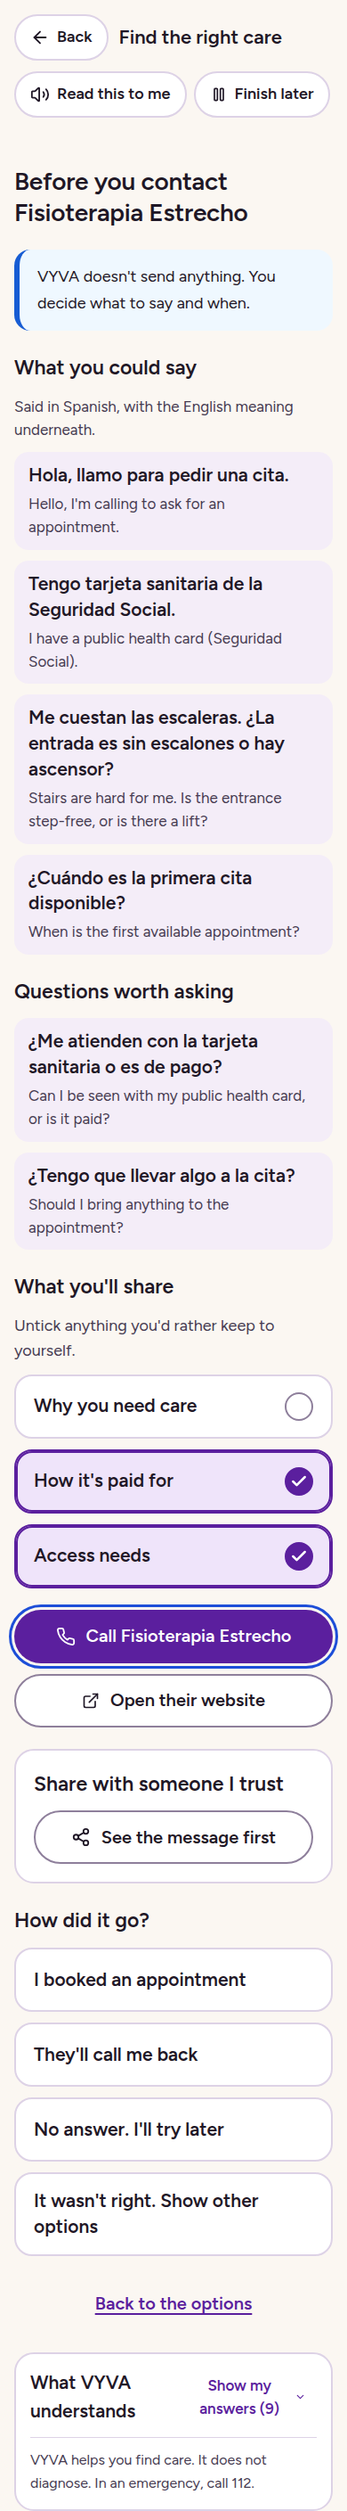
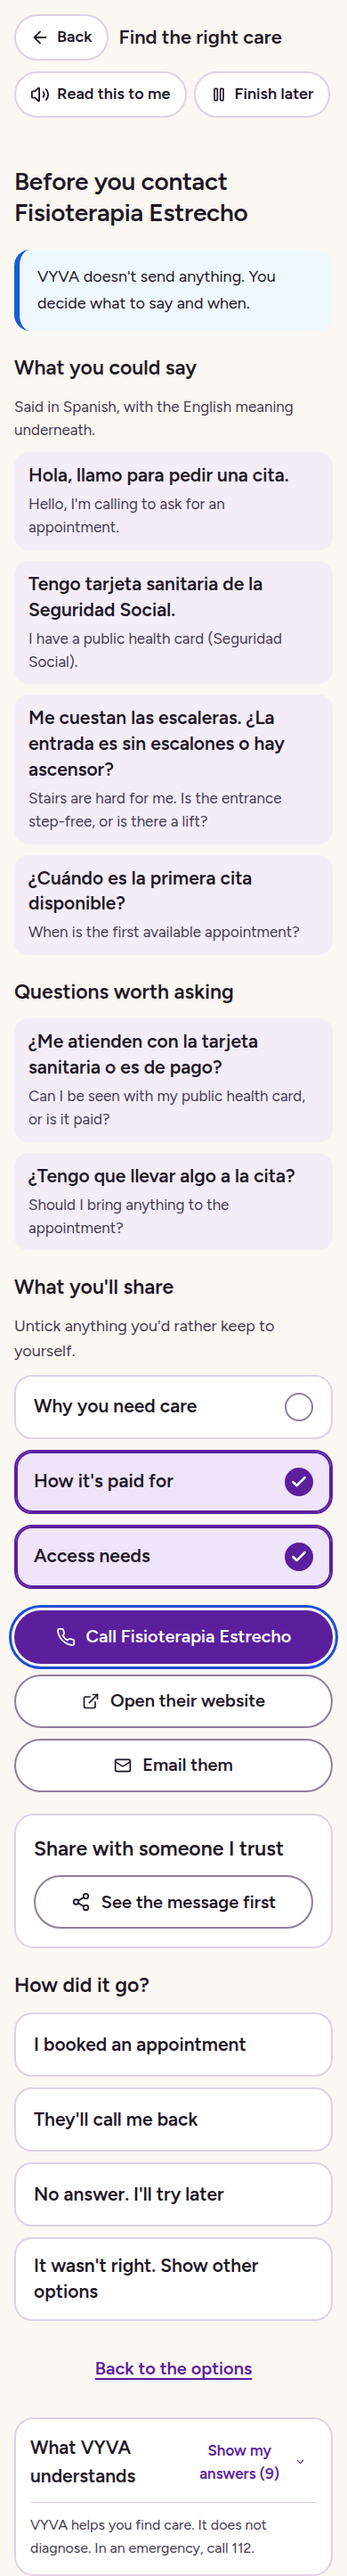
Care Finder: email button with a short label, like its neighbours
Seen at phone width, "Email them: <address>" wrapped long addresses mid-word
into a tall button and squeezed the icon. The button now reads "Email them"
(the address fills in the mail app, and the shared summary lists it), and
the icon keeps its size. The browser harness gets a long sample address and
the e2e contact tests check the link and no sideways scroll.

Claude-Session: https://claude.ai/code/session_01VV49smnWjUgj9Kvixja9Ew

Changed region(s): [[0.0308, 0.0, 0.9846, 0.9996], [0.9231, 0.781, 0.9538, 0.8747]]

diff --git a/src/features/careFinder/copy.ts b/src/features/careFinder/copy.ts
@@ -170,7 +170,7 @@ function englishCopy() {
       call: (name: string) => `Call ${name}`,
       noPhone: "No phone number was found for this place.",
       website: "Open their website",
-      email: (address: string) => `Email them: ${address}`,
+      email: "Email them",
       bookingLink: "Open their booking page",
       confirmTitle: (name: string) => `Call ${name}?`,
       confirmBody: (phone: string) => `Your phone will call ${phone}. VYVA doesn't listen to or record the call.`,
@@ -394,7 +394,7 @@ function spanishCopy(): Copy {
       call: (name: string) => `Llamar a ${name}`,
       noPhone: "No hemos encontrado un teléfono para este sitio.",
       website: "Abrir su web",
-      email: (address: string) => `Enviarles un correo: ${address}`,
+      email: "Enviarles un correo",
       bookingLink: "Abrir su página de citas",
       confirmTitle: (name: string) => `¿Llamar a ${name}?`,
       confirmBody: (phone: string) => `Su teléfono llamará al ${phone}. VYVA no escucha ni graba la llamada.`,
@@ -619,7 +619,7 @@ function frenchCopy(): Copy {
       call: (name: string) => `Appeler ${name}`,
       noPhone: "Aucun numéro de téléphone n'a été trouvé pour ce lieu.",
       website: "Ouvrir leur site web",
-      email: (address: string) => `Leur écrire un e-mail : ${address}`,
+      email: "Leur écrire un e-mail",
       bookingLink: "Ouvrir leur page de rendez-vous",
       confirmTitle: (name: string) => `Appeler ${name} ?`,
       confirmBody: (phone: string) => `Votre téléphone va appeler le ${phone}. VYVA n'écoute pas et n'enregistre pas l'appel.`,
@@ -844,7 +844,7 @@ function germanCopy(): Copy {
       call: (name: string) => `${name} anrufen`,
       noPhone: "Für diesen Ort wurde keine Telefonnummer gefunden.",
       website: "Website öffnen",
-      email: (address: string) => `E-Mail schreiben: ${address}`,
+      email: "E-Mail schreiben",
       bookingLink: "Terminseite öffnen",
       confirmTitle: (name: string) => `${name} anrufen?`,
       confirmBody: (phone: string) => `Ihr Telefon ruft ${phone} an. VYVA hört nicht mit und zeichnet nichts auf.`,

diff --git a/e2e/care-finder.spec.ts b/e2e/care-finder.spec.ts
@@ -138,6 +138,7 @@ for (const locale of ["fr", "de"] as const) {
     await page.getByTestId("button-show-options").click();
     await page.getByTestId("button-prepare-a").click();
     await expect(page.getByTestId("button-care-call")).toBeVisible();
+    await expect(page.getByTestId("link-care-email")).toBeVisible();
     // Long German compounds must wrap inside the column, never spill out of it.
     const spill = await page.evaluate(() => {
       const frame = document.querySelector("[data-testid='harness-frame']")!.getBoundingClientRect();
@@ -160,6 +161,8 @@ test("contact preparation requires confirmation before calling", async ({ page }
   await page.getByTestId("button-prepare-a").click();
   await expect(page.getByRole("heading", { name: "Before you contact Fisioterapia Estrecho" })).toBeVisible();
   await expect(page.locator('a[href^="tel:+34"]')).toHaveCount(0);
+  await expect(page.getByTestId("link-care-email")).toHaveAttribute("href", "mailto:citas.fisioterapia@fisioterapiaestrecho-tarifa.es");
+  await expectNoHorizontalScroll(page);
   await page.getByTestId("button-care-call").click();
   const dialog = page.getByRole("dialog", { name: "Call Fisioterapia Estrecho?" });
   await expect(dialog.getByTestId("link-confirm-call")).toHaveAttribute("href", "tel:+34956680000");

diff --git a/src/features/careFinder/CareFinder.test.tsx b/src/features/careFinder/CareFinder.test.tsx
@@ -207,7 +207,7 @@ describe("contact safeguards", () => {
     fireEvent.click(screen.getByTestId("button-show-options"));
     fireEvent.click(await screen.findByTestId("button-prepare-a"));
     expect(await screen.findByTestId("link-care-email")).toHaveAttribute("href", "mailto:cita@fisiocerca.es");
-    expect(screen.getByTestId("link-care-email")).toHaveTextContent("Email them: cita@fisiocerca.es");
+    expect(screen.getByTestId("link-care-email")).toHaveTextContent("Email them");
     fireEvent.click(screen.getByTestId("button-care-share-preview"));
     expect(screen.getByTestId("care-share-preview").textContent).toContain("Email: cita@fisiocerca.es");
   });

diff --git a/src/dev/care-finder/main.tsx b/src/dev/care-finder/main.tsx
@@ -59,6 +59,8 @@ const okResults: CareFinderSearchResponse = {
   mapsSearchUrl: "https://www.google.com/maps/search/?api=1&query=fisioterapia%2011380%20Tarifa",
   options: [
     option("a", "Fisioterapia Estrecho", 4, "1,2 km", {
+      // Long on purpose: it must wrap inside the button on a phone.
+      email: "citas.fisioterapia@fisioterapiaestrecho-tarifa.es",
       comparison: {
         distance: fact("1,2 km · 4 min", "reported"),
         price: fact(lang === "es" ? "Sesión desde 35 €" : "Session from €35", "verified", "Official provider website: fisioestrecho.es"),

diff --git a/src/features/careFinder/ContactStep.tsx b/src/features/careFinder/ContactStep.tsx
@@ -172,7 +172,7 @@ export function ContactStep({
         ) : null}
         {option.email ? (
           <a href={`mailto:${option.email}`} className={actionClass("secondary")} data-testid="link-care-email">
-            <Mail size={20} aria-hidden="true" /><span className="break-all">{c.email(option.email)}</span>
+            <Mail size={20} aria-hidden="true" className="shrink-0" /><span>{c.email}</span>
           </a>
         ) : null}
         {onArrangeRide ? (
